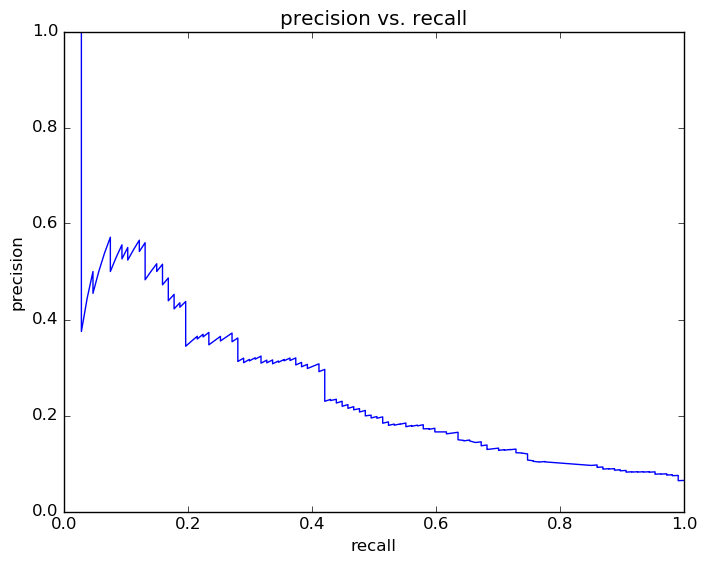
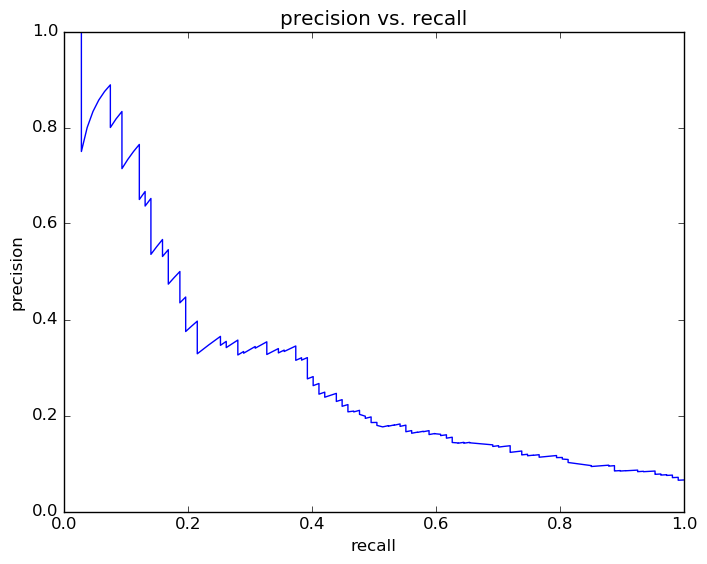
test model RF etc and more features

diff --git a/Reports/auto_expand_features_test_xc_logit.md b/Reports/auto_expand_features_test_xc_logit.md
@@ -6,40 +6,46 @@ expand features and grade range
 * initial cohort grade: 9
 * test cohorts: 2011
 	 * 107 positive examples, 1713 negative examples
-* train cohorts: 2009, 2010
-	 * 66 postive examples, 2062 negative examples
+* train cohorts: 2007, 2008, 2009, 2010
+	 * 126 postive examples, 4067 negative examples
 * cross-validation scheme: leave cohort out
-	 * searching penalty in l1
-	 * chose penalty = l1
 	 * searching C in 1.0
 	 * chose C = 1.0
+	 * searching penalty in l1
+	 * chose penalty = l1
 	 * using custom_recall_10
 * imputation strategy: median plus dummies
 * scaling strategy: robust
 
 ### Features Used
+* absence
+	 * tardy_gr_9
+	 * absence_consec_gr_9
+	 * medical_gr_9
+	 * tardy_consec_gr_9
+	 * tardy_unexcused_gr_9
 * mobility
 	 * n_cities_to_gr_9
 	 * n_addresses_to_gr_9
 	 * n_districts_to_gr_9
 * snapshots
-	 * disadvantagement_gr_9
-	 * days_absent_unexcused_gr_9
-	 * gifted_gr_9
-	 * status_gr_9
-	 * disability_gr_9
 	 * district_gr_9
-	 * special_ed_gr_9
-	 * oss_gr_9
-	 * limited_english_gr_9
-	 * days_absent_gr_9
-	 * discipline_incidents_gr_9
+	 * gifted_gr_9
+	 * disability_gr_9
+	 * status_gr_9
 	 * iss_gr_9
+	 * disadvantagement_gr_9
+	 * limited_english_gr_9
+	 * special_ed_gr_9
+	 * discipline_incidents_gr_9
+	 * days_absent_gr_9
+	 * days_absent_unexcused_gr_9
+	 * oss_gr_9
 * grades
 	 * gpa_gr_9
 
 ### Performance Metrics
-on average, model run in 0.05 seconds (1 times) <br/>precision on top 10%: 0.246 <br/>precision on top 5%: 0.326 <br/>top features: status_gr_9_esc (3.8), status_gr_9_inactive (1.3), gpa_gr_9_isnull (1.0)
+on average, model run in 0.23 seconds (1 times) <br/>precision on top 10%: 0.246 <br/>precision on top 5%: 0.326 <br/>top features: status_gr_9_esc (2.6), disability_gr_9_multiple (1.4), gpa_gr_9_isnull (1.3)
 ![auto_expand_features_test_xc_logit_pr_vs_threshold.png](auto_expand_features_test_xc_logit_pr_vs_threshold.png)
 ![auto_expand_features_test_xc_logit_score_dist.png](auto_expand_features_test_xc_logit_score_dist.png)
 ![auto_expand_features_test_xc_logit_precision_recall_at_k.png](auto_expand_features_test_xc_logit_precision_recall_at_k.png)

diff --git a/Reports/auto_expand_features_test_xc_DT.md b/Reports/auto_expand_features_test_xc_DT.md
@@ -6,8 +6,8 @@ expand features and grade range
 * initial cohort grade: 9
 * test cohorts: 2011
 	 * 107 positive examples, 1713 negative examples
-* train cohorts: 2009, 2010
-	 * 66 postive examples, 2062 negative examples
+* train cohorts: 2007, 2008, 2009, 2010
+	 * 126 postive examples, 4067 negative examples
 * cross-validation scheme: leave cohort out
 	 * searching criterion in entropy
 	 * chose criterion = entropy
@@ -18,28 +18,34 @@ expand features and grade range
 * scaling strategy: robust
 
 ### Features Used
+* absence
+	 * tardy_gr_9
+	 * absence_consec_gr_9
+	 * medical_gr_9
+	 * tardy_consec_gr_9
+	 * tardy_unexcused_gr_9
 * mobility
 	 * n_cities_to_gr_9
 	 * n_addresses_to_gr_9
 	 * n_districts_to_gr_9
 * snapshots
-	 * disadvantagement_gr_9
-	 * days_absent_unexcused_gr_9
-	 * gifted_gr_9
-	 * status_gr_9
-	 * disability_gr_9
 	 * district_gr_9
-	 * special_ed_gr_9
-	 * oss_gr_9
-	 * limited_english_gr_9
-	 * days_absent_gr_9
-	 * discipline_incidents_gr_9
+	 * gifted_gr_9
+	 * disability_gr_9
+	 * status_gr_9
 	 * iss_gr_9
+	 * disadvantagement_gr_9
+	 * limited_english_gr_9
+	 * special_ed_gr_9
+	 * discipline_incidents_gr_9
+	 * days_absent_gr_9
+	 * days_absent_unexcused_gr_9
+	 * oss_gr_9
 * grades
 	 * gpa_gr_9
 
 ### Performance Metrics
-on average, model run in 0.04 seconds (1 times) <br/>precision on top 10%: 0.119 <br/>precision on top 5%: 0.119 <br/>top features: gpa_gr_9 (0.45), days_absent_gr_9 (0.24), district_gr_9_Coshocton (0.061)
+on average, model run in 0.13 seconds (1 times) <br/>precision on top 10%: 0.2 <br/>precision on top 5%: 0.26 <br/>top features: gpa_gr_9 (0.45), days_absent_gr_9 (0.17), oss_gr_9 (0.092)
 ![auto_expand_features_test_xc_DT_precision_recall_at_k.png](auto_expand_features_test_xc_DT_precision_recall_at_k.png)
 ![auto_expand_features_test_xc_DT_score_dist.png](auto_expand_features_test_xc_DT_score_dist.png)
 ![auto_expand_features_test_xc_DT_pr_vs_threshold.png](auto_expand_features_test_xc_DT_pr_vs_threshold.png)

diff --git a/Reports/auto_expand_features_test_xc_RF.md b/Reports/auto_expand_features_test_xc_RF.md
@@ -1,4 +1,4 @@
-# Report for auto expand features test xc SVM
+# Report for auto expand features test xc RF
 expand features and grade range
 
 ### Model Options
@@ -9,10 +9,6 @@ expand features and grade range
 * train cohorts: 2007, 2008, 2009, 2010
 	 * 126 postive examples, 4067 negative examples
 * cross-validation scheme: leave cohort out
-	 * searching kernel in linear
-	 * chose kernel = linear
-	 * searching C in 1.0
-	 * chose C = 1.0
 	 * using custom_recall_10
 * imputation strategy: median plus dummies
 * scaling strategy: robust
@@ -45,8 +41,7 @@ expand features and grade range
 	 * gpa_gr_9
 
 ### Performance Metrics
-on average, model run in 2.67 seconds (1 times) <br/>precision on top 10%: 0.0963 <br/>precision on top 5%: 0.0984 <br/>top features: disability_gr_9_other major (1.0), status_gr_9_mrdd (1.0), tardy_unexcused_gr_9 (0.00097)
-![auto_expand_features_test_xc_SVM_score_dist.png](auto_expand_features_test_xc_SVM_score_dist.png)
-![auto_expand_features_test_xc_SVM_confusion_mat_0.3.png](auto_expand_features_test_xc_SVM_confusion_mat_0.3.png)
-![auto_expand_features_test_xc_SVM_pr_vs_threshold.png](auto_expand_features_test_xc_SVM_pr_vs_threshold.png)
-![auto_expand_features_test_xc_SVM_precision_recall_at_k.png](auto_expand_features_test_xc_SVM_precision_recall_at_k.png)
+on average, model run in 1.71 seconds (1 times) <br/>precision on top 10%: 0.188 <br/>precision on top 5%: 0.281 <br/>![auto_expand_features_test_xc_RF_confusion_mat_0.3.png](auto_expand_features_test_xc_RF_confusion_mat_0.3.png)
+![auto_expand_features_test_xc_RF_precision_recall_at_k.png](auto_expand_features_test_xc_RF_precision_recall_at_k.png)
+![auto_expand_features_test_xc_RF_pr_vs_threshold.png](auto_expand_features_test_xc_RF_pr_vs_threshold.png)
+![auto_expand_features_test_xc_RF_score_dist.png](auto_expand_features_test_xc_RF_score_dist.png)
